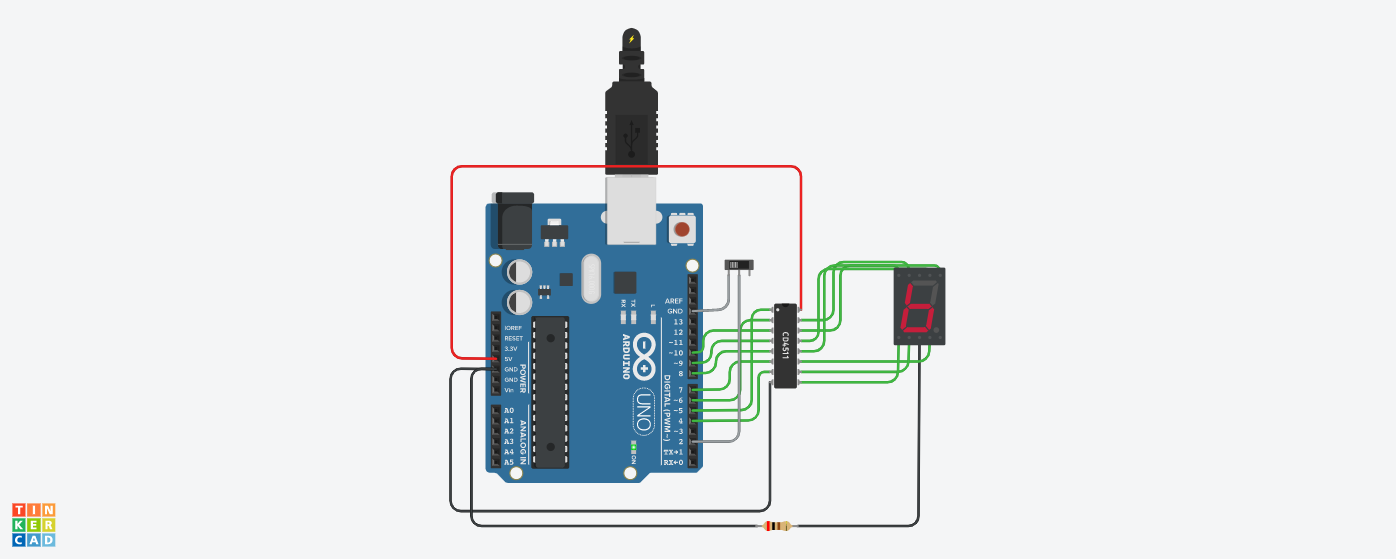
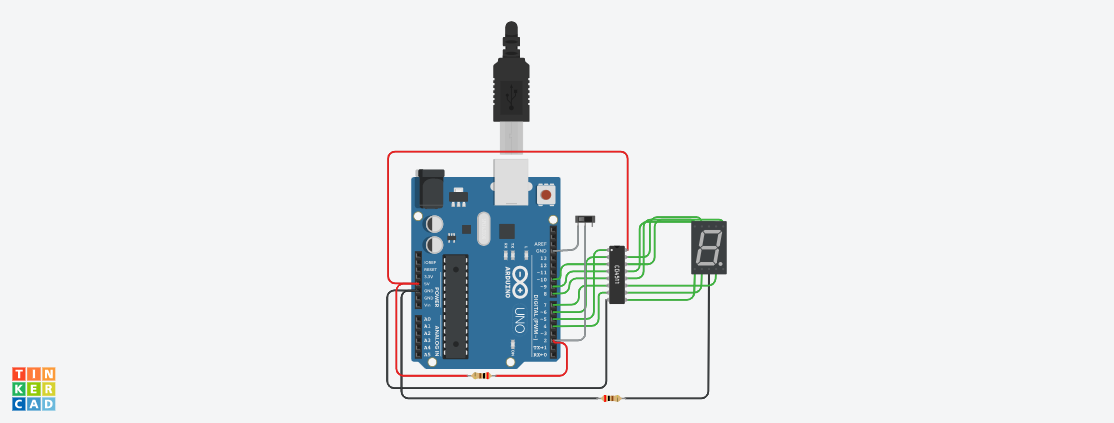
第七次作业 by zheng

Changed region(s): [[0.3052, 0.0307, 0.702, 0.9527], [0.0, 0.8605, 0.061, 0.9835]]

diff --git a/lesson7/code2.c b/lesson7/code2.c
@@ -1,0 +1,42 @@
+int pinInterrupt=2;
+int x=0;
+  
+void RZ()
+{
+  x=0;
+}
+
+  
+void setup()
+{ 
+  Serial.begin(9600);
+  pinMode(pinInterrupt,INPUT);
+ 
+  pinMode(4,OUTPUT);
+  pinMode(5,OUTPUT);
+  pinMode(6,OUTPUT);
+  pinMode(7,OUTPUT);
+  pinMode(8,OUTPUT);
+  pinMode(9,OUTPUT);
+  pinMode(10,OUTPUT);
+  
+  digitalWrite(9,HIGH);
+  digitalWrite(10,HIGH);
+  digitalWrite(8,LOW);
+  
+  attachInterrupt( digitalPinToInterrupt(pinInterrupt), RZ, CHANGE);
+}
+
+byte n[10]={0,1,2,3,4,5,6,7,8,9};
+
+void loop()
+{
+  for(x;x<10;x++)
+  {
+    digitalWrite(4,n[x]&0x1);
+    digitalWrite(5,(n[x]>>1)&0x1);
+    digitalWrite(6,(n[x]>>2)&0x1);
+    digitalWrite(7,(n[x]>>3)&0x1);
+    delay(1000);
+  }
+}
